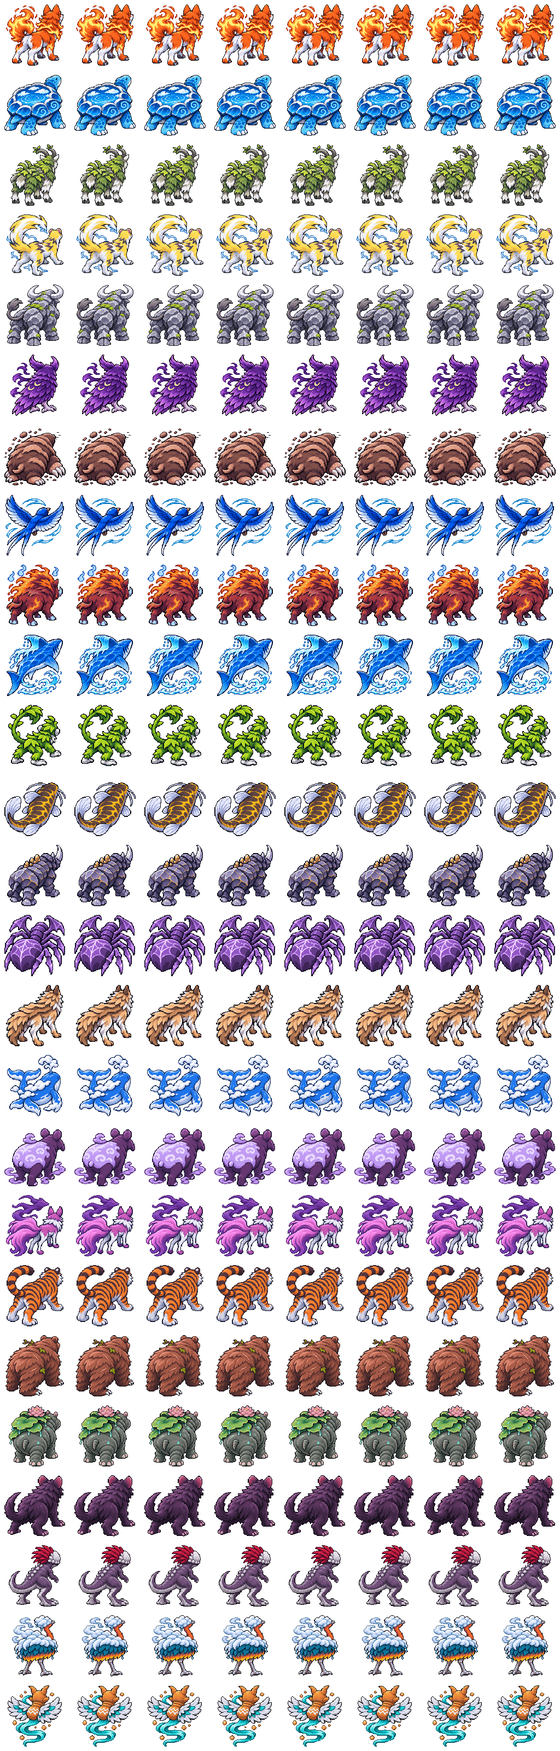
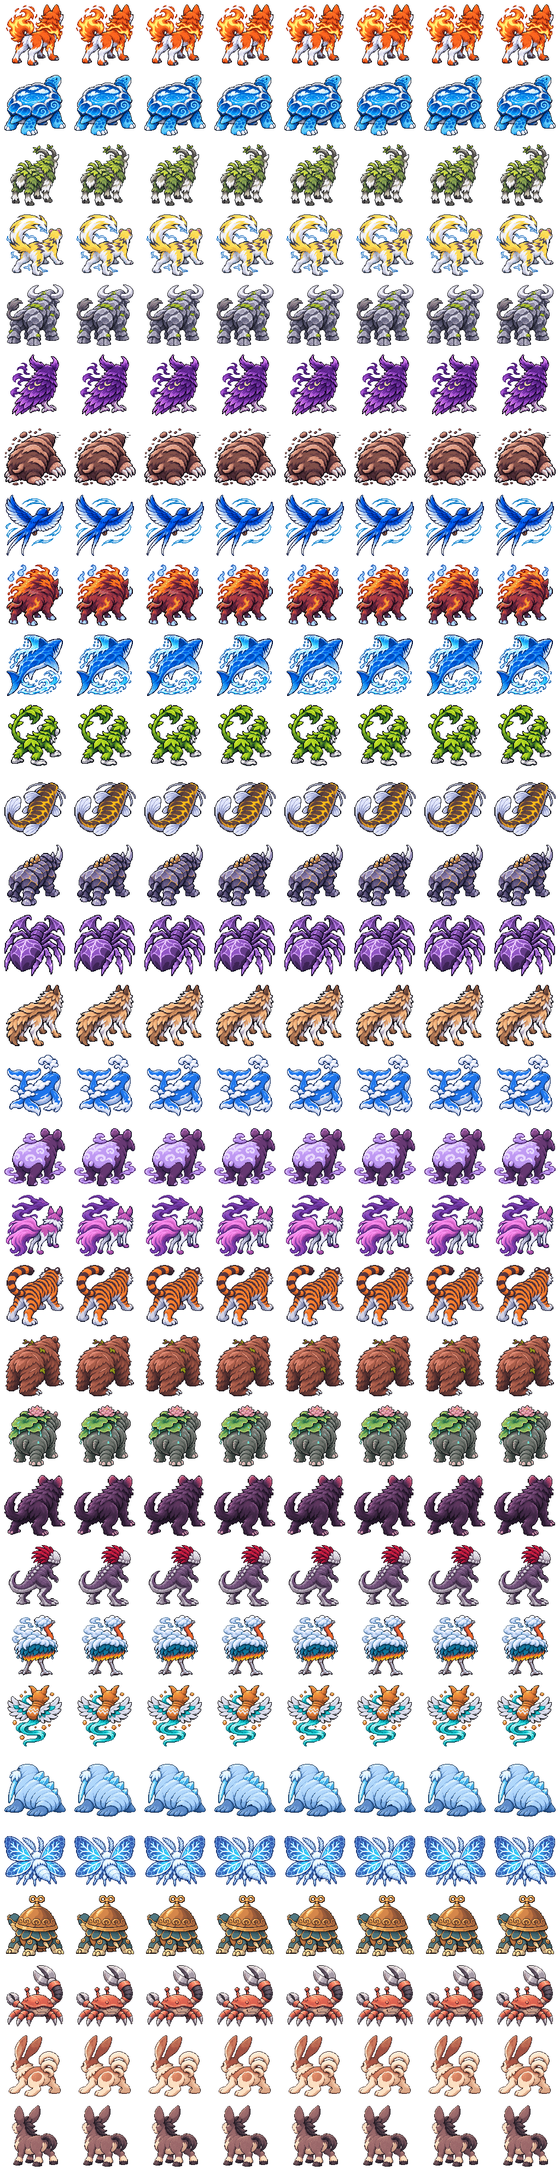
Add six normal ice, alchemy and neutral creatures with approved 128px art

diff --git a/index.html b/index.html
@@ -798,7 +798,7 @@ select,.pass{color:var(--bone);background:#172c40e8;border-color:var(--glass-edg
   <section class="modal-panel"><header class="modal-header"><div><span class="section-kicker">GENJU TOUKI</span><h2 id="modalTitle">幻獣闘記</h2></div><button id="btnModalClose" aria-label="ウィンドウを閉じる">×</button></header><div class="modal-body" id="modalBody"></div></section>
 </div>
 
-<script src="pixel-art.js?v=20261123-01"></script>
+<script src="pixel-art.js?v=20261123-02"></script>
 <script>
 "use strict";
 
@@ -2852,6 +2852,20 @@ const BACK_SPRITES = {
   }
 };
 
+
+SPRITES["tsurarauchi"]={"pal": {"0": "#031739", "1": "#07244a", "2": "#082b4f", "3": "#0d375d", "4": "#214f84", "5": "#36619c", "6": "#3c78b8", "7": "#3faae8", "8": "#5483c1", "9": "#5e8ac7", "A": "#6391ce", "B": "#71e8fb", "C": "#75a2da", "D": "#7bade5", "E": "#87b1e2", "F": "#94bbe6", "G": "#9fc8f3", "H": "#aacff7", "I": "#aed8fb", "J": "#b2d6fb", "K": "#b3d8fb", "L": "#b4ddfc", "M": "#b6dafb", "N": "#bcdefb", "O": "#bdd9f5", "P": "#cbf7fc", "Q": "#d1eafa", "R": "#e0f6fd", "S": "#e9f9fc", "T": "#f6fbfc"}, "px": ["................................", "................................", "................................", "................................", "................................", "................................", "................................", "................................", ".........8KQCRS.................", "........SCGHG04I3...............", "......31T641T01HN...............", ".....2TRS4TTSSRQH2..2...........", "....TMRRTFRSSRSRGQTPD...........", "....2RS3H2G0RRRQ0KOB7...........", "....QF4I7EC14GN0RIK772PB........", "....21P70OOLT72SDJLSBLR6........", ".....2L7EOOPPBAFJJMRQ777........", ".....PBSFO3P72DIIFKRMR0BSS......", ".....P7AOF3S7FIJJIIMKKJRB7......", "....3SBEOOTLLOHIMKKJJJMNQ7......", "....3S24OOTSSOH3JJADJKIIMRB1....", "....TL0DCOPB2OCJENKKKJGJGKH1....", "....PRCJOFPBEO3HKKJJIQHI8IHS....", "....P2HFOOSBOO30JIDCKHDH8H9G....", "....B.H1FORSOF5NFA998CDDDDDD0...", "....0.80FES2FFFD999990ACDD160...", "....39884ETFFFE39A999968A58CD0..", "...ECA9854BCCCC890A3C4A1455800..", "..9A5A854.3.1000AD9D6C83........", ".....10.........15450400........", "................................", "................................"]};
+BACK_SPRITES["tsurarauchi"]={"pal": {"0": "#031739", "1": "#07244a", "2": "#082b4f", "3": "#0d375d", "4": "#214f84", "5": "#36619c", "6": "#3c78b8", "7": "#3faae8", "8": "#5483c1", "9": "#5e8ac7", "A": "#6391ce", "B": "#71e8fb", "C": "#75a2da", "D": "#7bade5", "E": "#87b1e2", "F": "#94bbe6", "G": "#9fc8f3", "H": "#aacff7", "I": "#aed8fb", "J": "#b2d6fb", "K": "#b3d8fb", "L": "#b4ddfc", "M": "#b6dafb", "N": "#bcdefb", "O": "#bdd9f5", "P": "#cbf7fc", "Q": "#d1eafa", "R": "#e0f6fd", "S": "#e9f9fc", "T": "#f6fbfc"}, "px": ["................................", "................................", "................................", "................................", "................................", "................................", ".........3QRQQR.................", "........FOMKKKJG2...............", "........0FKJKKIHC...............", ".....5SRS9JQJJIGE84S............", ".....TSTS3FJJKKJ0PP7............", "....E4RTH3JENKK5LP77.2..........", ".....RER0AQMKKJB7L7SP7..........", ".....G7Q6QIIJ8QRT7IPT7..........", ".....0B7RJKJJQMKKF77773L2.......", ".....P70KIIMRKKMMRST6BT72.......", ".....P7MJIQRKKIJQMMMD7T72.......", "....3S7JISKKJ8MKKKMQRRR72S......", "....T72HTNHJEKKKHKKKKKFD77......", "....P730QICHJJJFMIJFIRQRT7......", "....PB.MIIIDJIHKIIRKMMKKMND.....", "....T54HHHH5HH6HHTKRPKJJKJ62....", "....B.395GGEGHGHAJJIJJIIAJGG....", "....1.D9A6C9DDGGGSNMJIIJIHGC....", ".....D999900DDDDQJJJHIHHHAD4....", "...0ACHA99589A5AC9A81HH8D3069...", "..H5COCHA60..055A9AAA0D3D85680..", "..45081840...G3C8C9A9586045550..", "............D0C0CAE960..........", ".............03251502...........", "................................", "................................"]};
+SPRITES["shimosura"]={"pal": {"0": "#03113f", "1": "#0d1c54", "2": "#0d245b", "3": "#172f71", "4": "#182432", "5": "#274d9c", "6": "#2dc1f4", "7": "#2eacec", "8": "#31d6fa", "9": "#3285d5", "A": "#334fa5", "B": "#3358af", "C": "#3461b9", "D": "#3698e3", "E": "#376fc3", "F": "#3c64b4", "G": "#527bc1", "H": "#638fd4", "I": "#6aa5e6", "J": "#73dbf8", "K": "#80bff3", "L": "#86aee7", "M": "#a3c5f0", "N": "#b1d5f8", "O": "#bdeffc", "P": "#c0e0fa", "Q": "#daeefa", "R": "#e3f8fc", "S": "#f0fcfd", "T": "#f2f9fb", "U": "#fafcfd"}, "px": ["................................", "................................", "................................", "................................", "................................", "................................", "...........................3....", "..5AKM......N...........5MBFB3..", "..LALAK....Q3..........QHA5IB2..", "..KFAANM..PM.......A..SAOAABBF..", "..K5TB7C3TQ1....32Q.5KBESBUBB3..", "..3BJ9EEHIP...1LPIL5KH7BRUUBB...", "...CBODEDNK..3QQ1M.OJJ99U9AA3...", "...BTCT66RL.UUTG..TI7UDUUUUBK...", "...CQBD8JLK.PT...U6Q86U9DBB63...", "...3BJDUR9AP001.0688UUTJ7UBE....", "...5EO96TQPP00Q1QJ8UU8DD9BTL....", "....3OO850P3ANRQ7RD887DDUCS.....", "......GR4Q5MOTSR099SUUTPO5......", ".....QB7UQLPTSRSM20EI77BL3......", "....MC7UNSRRSPQLC6QU88U6CHM.....", "...KRBS69NRRTGM10686R88T9DMM....", "..2B999871NMPL3QE2U7R7769UBC2...", "..KBBQ6R5NGHGSHNPIGRRT7DOBICK...", "..1NOT3MQ032GSF50T15H01TJBKCH...", ".......UF.R0.RNHLMNLPLM.31KO3...", ".......H..B..HF.0GMHHNH.........", "......N..N...Q....01.2L1........", "......0..3...O.....I...N........", ".............3..................", "................................", "................................"]};
+BACK_SPRITES["shimosura"]={"pal": {"0": "#03113f", "1": "#0d1c54", "2": "#0d245b", "3": "#172f71", "4": "#274d9c", "5": "#2dc1f4", "6": "#2eacec", "7": "#31d6fa", "8": "#3285d5", "9": "#334fa5", "A": "#3358af", "B": "#3461b9", "C": "#3698e3", "D": "#376fc3", "E": "#3c64b4", "F": "#527bc1", "G": "#638fd4", "H": "#6aa5e6", "I": "#73dbf8", "J": "#80bff3", "K": "#86aee7", "L": "#a3c5f0", "M": "#b1d5f8", "N": "#bdeffc", "O": "#c0e0fa", "P": "#daeefa", "Q": "#e3f8fc", "R": "#f0fcfd", "S": "#f2f9fb", "T": "#fafcfd"}, "px": ["................................", "................................", "................................", "................................", "................................", "................................", "................................", "...FJM3...3......T......4PLAL...", "..HAB9AQ..3QE3...33....3LA9AA3..", "..DDAB9GM3.2LTG..9PL..SFH9AHE2..", "..KB9MA6RJ4.OPK2..LS.GJI6CTAB3..", "..3EA8SDB8J..KMH..KO3HBBBT6AB...", "...AAADTCCCJ..1G.2M3QC6CTDAJF...", "...ABM65T6T5S..F..H0I65T65SB0...", "...JHBB8CTQ5732OTR4SPSTCDBCB3...", "...3JBR6QS6T7QQRSRGC5TTQ6IBK....", "....FSD8CNT7CQ0PPOLP8RCCTAN2....", ".....GSQCT75PMLFMORHP65CTQ1.....", ".......2GAB88POPRSRSD8D0........", ".....9PMN57T56GTTQ9LPP558N......", "....4PADC77QIP0POGOMH86ICDJ4....", "...4JBDSIC7572DKHQSRPN56TSIK3...", "...MBBTDT6RN0EGBHPORTQJQCDTBF...", "..4DDBBBC6T0FR0OKMQQTPPSC5BJB4..", "..2DDJITS0F.SHFS4LOPPQOH3S6JD3..", "....24..OM1LPG4SO2KMOGHGL..33...", "........K0.3L4.OK10JHMP.H.......", "........G..M...O.....0K.01......", ".......0..20...K......F..A......", "...............0................", "................................", "................................"]};
+SPRITES["kamegane"]={"pal": {"0": "#151012", "1": "#17232c", "2": "#1c1516", "3": "#1d181a", "4": "#211a1b", "5": "#271d1c", "6": "#2e2422", "7": "#3a454a", "8": "#3f302a", "9": "#40585e", "A": "#4f747a", "B": "#5d8588", "C": "#6d4334", "D": "#8c5a3d", "E": "#929a8a", "F": "#956e4e", "G": "#ac6841", "H": "#b97640", "I": "#c1834a", "J": "#d19c6c", "K": "#d4a47a", "L": "#d7894f", "M": "#dbbe88", "N": "#de934c", "O": "#e2ab69", "P": "#e4a155", "Q": "#f3ad59", "R": "#f9c87b", "S": "#f9d5a1", "T": "#f9daa0", "U": "#fbeeb8", "V": "#fcd5a1"}, "px": ["................................", "................................", "...............4QP.UP...........", "...............Q.HQG.I..........", "...............HNGIHQ6..........", "..................Q.............", ".................QPG............", "..............4RDCCCH2..........", ".............OIOUOLLGGD2........", "............IILUOLLLIGGC5.......", ".......JTQ2IGHOHCLLLDGGCC.......", "...UGNEE7DCCNCDDCPLQCPGCCG......", "..3..0K6H764ACPPCDPPPPC8HC......", "..QCU0EBD325GQQRURR88NNIGCH.....", "..45UDVVGBUPAA000DDRRQQRCCC.....", "...82VVVVF51BB4D793432CRPIC5....", "....KS4VS2VVF9GAAA7334D24DIN....", ".....SVVVVVKK72RAA9B2LUL238QG...", ".......3KKKCK173RQBQ3IQN2332N...", ".......N3KKKSV75F08A95D21228G...", "......4DJMMVVVFS072QA99797C0....", "......2MAISVVSV7BBBGQBPAA0B.....", ".....KC4BSMVVKK0UU890D2IP0D4....", "....24IB72RKKRJAEI6G2IGG7IQ.....", "....EBB4K9F6JJIFCBBABFD2774B....", "....BBEVK3.CIJITVEBBAD30KVEB2...", "....KC3MK..FCF26V9B772..KJSSI...", "...U3JVKD.00FF..JVVVCS..KKCUK2..", "...KUJKK0.......V0VFUJ5....4....", "................20U4U...........", "................................", "................................"]};
+BACK_SPRITES["kamegane"]={"pal": {"0": "#110c0c", "1": "#181110", "2": "#182432", "3": "#1a1413", "4": "#1c1514", "5": "#221916", "6": "#31474d", "7": "#36241d", "8": "#37555c", "9": "#42656d", "A": "#44322c", "B": "#4a717a", "C": "#517881", "D": "#683e30", "E": "#76857a", "F": "#845138", "G": "#9b5c3b", "H": "#b16e3e", "I": "#bf7341", "J": "#c4a884", "K": "#c67942", "L": "#d5874a", "M": "#da8e46", "N": "#de9649", "O": "#e69c4b", "P": "#eea653", "Q": "#f1b768", "R": "#f8c16a", "S": "#fad085", "T": "#fbdb9d", "U": "#fce7ad"}, "px": ["................................", "................................", ".............0UP.1TL............", ".............P.7NM.M............", ".............1RNOMSG............", "................P1..............", "...............PPI..............", ".............4QRRMI3............", "............MOULLIGFF1..........", "..........4KUTPLLLIGFF0.........", "......C0.3IPPPLLLIIGGFF.........", "...S1CCC8LKPPLLLHHIIGFFH........", "...NTCCCQQDDUDLLAIIGAAFD1.......", "....CQ987MGDMPLNANGQAFAIA.......", "....9SM0KAMAMNAONDDM7DKKI4......", "....5SHPRAAOLLLGGAKKHKIKHN......", ".....JSSRPTTSQAAADAAAAHNIH......", "......JJA2SSROOOLLLKHIIKN0......", ".......SC9G8960414111226F.......", ".......SCPBBB69888A888K880......", ".......FL4CCBRBBCBP9999K9O......", "......0C8ACRP11RBB4BC991H0......", ".....PRC8KFD9FO8HO21NN0F8QR.....", ".....1C481IIRDMC6665J16590I1....", "....ECEJ56DEC5C00886TTG8SC99....", "....ECTJJ..ECCCSJGLLGT3JJ499....", "...4TTGJ5..0441J1FFG1..JJSTT....", "...STTJJ...J0TTG.FF11..1JJQ0U...", "...1455...UQUJJJ........113TS...", "..........15J311................", "................................", "................................"]};
+SPRITES["kanippa"]={"pal": {"0": "#050105", "1": "#0f0b12", "2": "#182432", "3": "#1c1219", "4": "#331a1e", "5": "#39313c", "6": "#3d2429", "7": "#5a4c5a", "8": "#5c2f30", "9": "#5d3e44", "A": "#675866", "B": "#6f6576", "C": "#8e4140", "D": "#96635b", "E": "#9a7e7d", "F": "#a69ba7", "G": "#ad4640", "H": "#bc5147", "I": "#beb2bd", "J": "#c69e8a", "K": "#d15f51", "L": "#d4c9cf", "M": "#dcb79d", "N": "#e06250", "O": "#e96b55", "P": "#eeceb7", "Q": "#f0e3da", "R": "#f3795d", "S": "#f49b76", "T": "#f6b68f", "U": "#f88968", "V": "#faf6f2"}, "px": ["................................", "................................", "................................", "...........0VVLB3...............", "..........VLLL7.................", "........5VQV57...V..............", "........VIIV70..LB..............", ".......5III7E.VIIB..............", ".......1B4L71IQLFE..............", "......L0LFIEIILLB...............", ".....SS7BIF2ILAE0...............", "....5PRUIIBABAB.................", "....E0RRHG0.....................", "...3BB6HC4H....30...TR..........", "...FA555C......43...11..........", "...EB7534......40...KC..........", "...B770C.....66UJD..H...VQ7.6...", "...A703K..1KUSRHGKHK0..LL7.LL...", "....OHH8PSKKN48NRRRRG4.FI1LLE...", ".....4ADTP0TKNUG6HTCOK.UUIIB....", ".......6DDJ3GGDEJ30PJC4UH1A3....", "......0.615EEMTTTTMME4TD8C......", ".....SRGPR35ETPTTTTJEB78........", "....UNCPUOCPKEJTJJJJGTCRT.......", "...JOC5RNCKTR0DDEDD9KCQCGU......", "...VG3TRC3GR8.....954HR0CKT.....", "...IA.V61.C40.....07.080.7L.....", "...I..QB..BF......03..EL..Q.....", "...E..V3...L..........10..F.....", "......2.........................", "................................", "................................"]};
+BACK_SPRITES["kanippa"]={"pal": {"0": "#050105", "1": "#0f0b12", "2": "#1c1219", "3": "#331a1e", "4": "#39313c", "5": "#3d2429", "6": "#5a4c5a", "7": "#5c2f30", "8": "#5d3e44", "9": "#675866", "A": "#6f6576", "B": "#8e4140", "C": "#96635b", "D": "#9a7e7d", "E": "#a69ba7", "F": "#ad4640", "G": "#bc5147", "H": "#beb2bd", "I": "#c69e8a", "J": "#d15f51", "K": "#d4c9cf", "L": "#dcb79d", "M": "#e06250", "N": "#e96b55", "O": "#eeceb7", "P": "#f0e3da", "Q": "#f3795d", "R": "#f49b76", "S": "#f6b68f", "T": "#f88968", "U": "#faf6f2"}, "px": ["................................", "................................", ".................KKUU1..........", "..................6UKKU.........", "...............K...69UKK........", "...............UH4.16DKEP.......", "...............KHHK.D6EEE.......", "...............0DHUK06H6E.......", "................DEKHEDUKK1......", ".................H9EE0EOSTN.....", "..................A996TNTOQ3....", "....................32JJB4A2....", "...........0M...NM....BB49A6....", "...........0F...1......B4599....", ".....0......M...0T.....306962...", "...U64KU....G.0SOO5.....B6662...", "...HK46H5...1TTSNSTQQ..3T464....", "...AUH1D3.2TFQRTTTNMNJ2OCG10....", "...K6EQOR.MGMNQQOGNJJJQLI5B.....", "....A6FNO2FJMJJNFMMNNMBG90......", "......B0DIIT7MRMTSBBBFRT0.......", ".........A0GF23B55C58998........", "......5RG2409DDIIIIIIICBJQO.....", ".....O7QBSRQB3CCI8LLIIGO2GN7....", "....BQGBIS5F3SN0999984BMQ7FQ....", "....UGB.TQB3DQB......73GQ28E....", "...2E6..UF5.JJ7......6122K.A2...", "...0A..1EA..DD.......A..DK.62...", ".......2A...2E...........2......", ".............4..................", "................................", "................................"]};
+SPRITES["hazumimi"]={"pal": {"0": "#0f0709", "1": "#2e1818", "2": "#3e2422", "3": "#583730", "4": "#896557", "5": "#8d4f44", "6": "#a85345", "7": "#b9614d", "8": "#bb7058", "9": "#be927a", "A": "#cb8061", "B": "#cd765a", "C": "#d39576", "D": "#daa585", "E": "#e1b090", "F": "#e28966", "G": "#e3b99b", "H": "#e4a784", "I": "#ed9170", "J": "#edba98", "K": "#f1c6a5", "L": "#f8d7b9", "M": "#f9e0c6", "N": "#f9e6ce", "O": "#fbecd8", "P": "#fcf0dd", "Q": "#fcf8ea", "R": "#fde0c2", "S": "#fde4c8", "T": "#fde8cd", "U": "#fdebd0"}, "px": ["................................", "................................", "................................", "................................", "...........2I1.....0............", "..........H66....J87............", ".........AA56..282I7............", "........FFA6..H6III7............", ".......HAAM6.F1IIII1............", "......1ABSM.COIIIIB.............", "......EFCS04SBIIIN4.PQNPO4......", "......JAJD.SUBIIU0.PSMEMSOG.....", "......HDE.3S7FHU1..LE4..GTM.....", "......DJD.MM7P0...0DQPQP09R1....", "......0E03N3J......OUKOSM0J.....", "......4F7CND.......K4..DOND.....", ".....QIABSMRD1..303E9ON09E......", ".....NFFU90TQL3IABAB23LOC2......", "....Q0FS57SOUN8BFAABA88G........", "....NI7SSMRTMEBABAQLBB5E........", ".....NK9SSM9DNOBAJL8BBD.........", "......90089LOSNGRQLLBMB.........", "......PMEJKUKQ4MSQLRLLNMG.......", "......34OSSPG1UEE9RLLRPLL.......", ".......12QU1DSS8540LLULJLO......", "......3LJ9..PRR2549....DLL2.....", "....1POUD..QSS3849.....1JLO.....", "....7POE.2NTS8CH91.....OOKS4....", "....088536OQS.........MGTTMM....", ".........E8H0..........2394.....", "................................", "................................"]};
+BACK_SPRITES["hazumimi"]={"pal": {"0": "#0f0709", "1": "#2e1818", "2": "#3e2422", "3": "#583730", "4": "#896557", "5": "#8d4f44", "6": "#a85345", "7": "#b9614d", "8": "#bb7058", "9": "#be927a", "A": "#cb8061", "B": "#cd765a", "C": "#d39576", "D": "#daa585", "E": "#e1b090", "F": "#e28966", "G": "#e3b99b", "H": "#e4a784", "I": "#ed9170", "J": "#edba98", "K": "#f1c6a5", "L": "#f8d7b9", "M": "#f9e0c6", "N": "#f9e6ce", "O": "#fbecd8", "P": "#fcf0dd", "Q": "#fcf8ea", "R": "#fde0c2", "S": "#fde4c8", "T": "#fde8cd", "U": "#fdebd0"}, "px": ["................................", "................................", "..........2B......1.............", ".........0BB....3B8.............", "........2BBB...J8B8.............", "........SBB8..I8772.............", ".......QBCB7.38768..............", ".......TACB0.66656..............", ".......MCH7.85566...............", ".......CDD5.66660....QQ1........", ".......LC8.0656....POOPOS1......", ".......RD5.555....NSOKETTU0.....", ".......R81535.....RJ2..2ESE.....", ".......B66665.....J84QQQ1GJ.....", "......QB67665.....EQOTNPNDD.....", "......N9764JJJ8...0SJDHKSK......", ".....LR57MUKRKE0CI2D4623KJ......", ".....9MKLKUUK7HFFF8DNOQOCD......", "......GDNUO0BHAABOA8CEET0.......", ".......QURK7FA4IFFCR888J9.......", ".......PELBBBGFFFAANEECC1.......", ".......0GKR8BMFFABBRKGJD8.......", "........0MRC1LRAABLLGGEGC.......", "........9SS11RRSRRLEDD8DK.......", ".......4MSKG4RSRRMD8D3CDEK......", "......9RRK4..0KRTU.....DJKK.....", "....MKURE.....2MRO3...0DEED0....", "....KMRDD...URRRKE....HEDDD0....", ".....22....N9SRED......222......", "............5DD0................", "................................", "................................"]};
+SPRITES["robariton"]={"pal": {"0": "#0b060c", "1": "#1c151c", "2": "#2b1e26", "3": "#2e242f", "4": "#342a36", "5": "#3e303b", "6": "#4c353f", "7": "#52404a", "8": "#63434c", "9": "#664851", "A": "#694f58", "B": "#764e55", "C": "#825c60", "D": "#946567", "E": "#976d6d", "F": "#996769", "G": "#9d686a", "H": "#9d6b6c", "I": "#9d6e6f", "J": "#a06c6d", "K": "#a17070", "L": "#a47271", "M": "#ae7a77", "N": "#b98c81", "O": "#ce9a86", "P": "#d8ab8e", "Q": "#e5b899", "R": "#f7d8ba", "S": "#fcdfc1", "T": "#fce2c4", "U": "#fcebd1"}, "px": ["................................", "................................", "................................", ".........8.........M0...........", "........722.......DR0...........", "........GON.....5DPSF...........", "........N2E....NFPTT0...........", ".......0TDD....F6PRS5...........", "........S6CCMCMHOTSD............", "........IN1571D5PRU1............", "........BLLH5D6QSC3.............", "......TRTG1CIB965...............", ".....1SSRSLUKG41................", "......20SSFFHG247...............", "......RDSTHFEH35C...............", ".......PN2C8BFB661..............", "........OQPBFGF15A...MCN0.......", ".......ORPTGHFLJ5HFKM15BBK......", "......2NSSTDFLJDJHGHGN13773.....", "......2TTSTDSKLJGHJJGJC.5A9.....", "......LQTSTTBGJGFFLGGGG.657.....", "......71PPSOCHGLBDRQJGD.258.....", ".......BOPPO0FFBOPQNEGF..4......", ".......FB5QQOLLDNP25DFDJ........", ".......DCB...GJB76B.1B6D........", "......8EB....FFB.88...BE2.......", "......TSP....STQ1NM...RTT.......", ".....07TP...0U1Q65O...0C5.......", ".....1A54...1EEA320...AL6.......", ".....000....47A61...............", "................................", "................................"]};
+BACK_SPRITES["robariton"]={"pal": {"0": "#0b060c", "1": "#1c151c", "2": "#2b1e26", "3": "#2e242f", "4": "#342a36", "5": "#3e303b", "6": "#4c353f", "7": "#52404a", "8": "#63434c", "9": "#664851", "A": "#694f58", "B": "#764e55", "C": "#825c60", "D": "#946567", "E": "#976d6d", "F": "#996769", "G": "#9d686a", "H": "#9d6b6c", "I": "#9d6e6f", "J": "#a06c6d", "K": "#a17070", "L": "#a47271", "M": "#ae7a77", "N": "#b98c81", "O": "#ce9a86", "P": "#d8ab8e", "Q": "#e5b899", "R": "#f7d8ba", "S": "#fcdfc1", "T": "#fce2c4", "U": "#fcebd1"}, "px": ["................................", "................................", "........M.......BF..............", ".......MFL.....MGC..............", ".......DFE....OLGD..............", ".......FGJ1..7FLFB..............", "......0LEFB..MGGDB..............", ".......FFDCE3BDCB6..............", ".......BDCB50I1BB...............", ".......1BBB535A8................", "......UQCB836A6.................", ".....7TIG9B39465................", "......SDFDD1257.................", "......UTC6FB54795...............", ".......O1IFF0461................", "........FDGKC12300.0AMM2........", ".......EILBLJMNNMFD959D8E.......", ".......MM6JKMLKGMGG4144BB1......", ".......UTLIKJJMKKGHD8C7A81......", ".......TQLILJLJGLGDTP9764C......", "......0TFGGCJDJKJFGRP95140......", ".......QDGH0OPJJDGCPQ1605.......", ".......1DDCIQPKJDF3O6BB3........", "........MFBMOOODFJL.79BG8.......", "........LDB.305.KGC..0BFG.......", "........SL1.6E7.LTL...CTR5......", ".......TSQ..3FD.TRT...0RSS......", "......0C2Q.1433UQSQ0..0110......", "......A974.....A972...4774......", "...............5A51.............", "................................", "................................"]};
+
 /* ================= pixel field ================= */
 /* Native 384 × 216 pixel field. All marks use integer fillRect calls.
    Decorative randomness is private and never consumes the battle's RNG. */
@@ -3102,6 +3116,15 @@ SPECIES.push(
  {...YUDACHOU,n:"ユダチョウ",hp:130,atk:40,def:65,spatk:125,spdef:125,spd:65,role:"天候特殊アタッカー",roleDesc:"夕立とスチームタンクで回復する特殊型。物理防御と速度は控えめ。"},
  {...SARANDI,n:"サランディ",hp:120,atk:45,def:85,spatk:110,spdef:85,spd:105,role:"砂嵐特殊アタッカー",roleDesc:"砂嵐で耐久と追加効果を強化する。風纏で特殊攻撃を切り返す。"}
 );
+
+// Six normal creatures: existing ice/alchemy/neutral moves and abilities.
+SPECIES.push(...[{"id": "tsurarauchi", "n": "ツララウチ", "t": "氷", "hp": 145, "atk": 100, "def": 95, "spatk": 65, "spdef": 85, "spd": 60, "aff": "水", "role": "雪の耐久アタッカー", "roleDesc": "登場時に雪を降らせて物理耐久を補い、氷槍や氷牙で反撃する。"}, {"id": "shimosura", "n": "シモスラ", "t": "氷", "hp": 100, "atk": 45, "def": 65, "spatk": 115, "spdef": 100, "spd": 125, "aff": "空", "role": "雪の高速特殊型", "roleDesc": "雪かきで加速して冷光線を放つ。自分で雪招きを使うか、味方が降らせた雪を引き継ぐ。"}, {"id": "kamegane", "n": "カメガネ", "t": "錬", "hp": 120, "atk": 45, "def": 115, "spatk": 90, "spdef": 125, "spd": 55, "aff": "水", "role": "音技の特殊受け", "roleDesc": "警鐘の響きで攻めを鈍らせ、共鳴砲と修復で粘る。しょうすう波で音技を強化。"}, {"id": "kanippa", "n": "カニッパ", "t": "錬", "hp": 110, "atk": 120, "def": 115, "spatk": 40, "spdef": 80, "spd": 85, "aff": "水", "role": "拘束・連続攻撃型", "roleDesc": "挟み撃ちで交代を止め、けんけんまや粉砕岩を狙う。腕ピースで2発目以降を強化。"}, {"id": "hazumimi", "n": "ハズミミ", "t": "無", "hp": 105, "atk": 85, "def": 75, "spatk": 50, "spdef": 80, "spd": 155, "aff": "野", "role": "高速の蹴りアタッカー", "roleDesc": "超脚力で跳ね蹴りを強化。助走をつけるで攻撃をしのぎ、素早さを活かす。"}, {"id": "robariton", "n": "ロバリトン", "t": "無", "hp": 140, "atk": 70, "def": 80, "spatk": 105, "spdef": 100, "spd": 55, "aff": "地", "role": "音技の持久戦型", "roleDesc": "中低音で音技を受け流し、ヒーホー砲で回復しながら戦う。"}]);
+ABIL_OF.tsurarauchi=["snowWarning", "ballast"];
+ABIL_OF.shimosura=["snowShovel", "blur"];
+ABIL_OF.kamegane=["minorityWave", "mirror"];
+ABIL_OF.kanippa=["armPiece", "hide"];
+ABIL_OF.hazumimi=["superLegs", "quick"];
+ABIL_OF.robariton=["lowVoice", "focus2"];
 let selectedChallenge="kefarock";
 const spec = id => SPECIES.find(s => s.id === id)||CHALLENGES[id]?.species;
 
@@ -3148,6 +3171,12 @@ const INDIVIDUAL_MOVES={
  gako:["wildfang","wildclaw","pivot","touch","devour","ambush","startle","sand","taunt","sub"],
  arakuma:["wildfang","wildclaw","pivot","quake","rift","gravel","root","repose","revenge"]
 };
+INDIVIDUAL_MOVES.tsurarauchi=["iceMake", "snowball", "icePebble", "frostFang", "iceLance", "coldRay", "whiteStorm", "snowCall", "iceArmor", "waterfang", "aqua", "repose", "revenge"];
+INDIVIDUAL_MOVES.shimosura=["iceMake", "snowball", "coldRay", "whiteStorm", "snowCall", "iceArmor", "gust", "blast", "soar", "sub"];
+INDIVIDUAL_MOVES.kamegane=["alarmBell", "alchemyShot", "resonantCannon", "plateArmor", "repair", "scrapShot", "aqua", "haze", "repose", "sub"];
+INDIVIDUAL_MOVES.kanippa=["pincer", "kenkenma", "scrapShot", "alloyClaw", "armoredRush", "plateArmor", "repair", "waterfang", "crushrock", "gravel", "sub"];
+INDIVIDUAL_MOVES.hazumimi=["jumpKick", "runUp", "headlong", "wildclaw", "wildfang", "pivot", "sand", "sub"];
+INDIVIDUAL_MOVES.robariton=["heeHaw", "runUp", "headlong", "alarmBell", "resonantCannon", "gravel", "repose", "revenge", "sub"];
 for(const id of ["shiogame","rainen","ungei"])INDIVIDUAL_MOVES[id].push("rainDance");
 for(const id of ["fukurou","oborogi","yoigumo"])INDIVIDUAL_MOVES[id].push("mindGame");
 for(const id of ["damasdevil","gako","sarou"])INDIVIDUAL_MOVES[id].push("killBreath");
@@ -3187,6 +3216,12 @@ const IDLE_PROFILES = {
 IDLE_PROFILES.kefarock={period:1900,front:{bodyY:15,footY:28,appendages:[]},back:{bodyY:15,footY:28,appendages:[]}};
 IDLE_PROFILES.yudachou={period:2300,front:{bodyY:16,footY:27,appendages:[{rect:[24,11,29,15],delta:[1,0]}]},back:{bodyY:16,footY:27,appendages:[{rect:[24,11,29,15],delta:[1,0]}]}};
 IDLE_PROFILES.sarandi={period:2100,front:{bodyY:17,footY:28,appendages:[{rect:[2,17,7,21],delta:[0,1]}]},back:{bodyY:17,footY:28,appendages:[{rect:[23,17,29,21],delta:[0,1]}]}};
+IDLE_PROFILES.tsurarauchi={period:2320,front:{bodyY:18,footY:28,appendages:[]},back:{bodyY:18,footY:28,appendages:[]}};
+IDLE_PROFILES.shimosura={period:2320,front:{bodyY:18,footY:28,appendages:[]},back:{bodyY:18,footY:28,appendages:[]}};
+IDLE_PROFILES.kamegane={period:2320,front:{bodyY:18,footY:28,appendages:[]},back:{bodyY:18,footY:28,appendages:[]}};
+IDLE_PROFILES.kanippa={period:2320,front:{bodyY:18,footY:28,appendages:[]},back:{bodyY:18,footY:28,appendages:[]}};
+IDLE_PROFILES.hazumimi={period:2320,front:{bodyY:18,footY:28,appendages:[]},back:{bodyY:18,footY:28,appendages:[]}};
+IDLE_PROFILES.robariton={period:2320,front:{bodyY:18,footY:28,appendages:[]},back:{bodyY:18,footY:28,appendages:[]}};
 const idleFrameCache = new Map();
 function getIdleFrame(id, view="front", phase=0){
   const base = (view === "back" ? BACK_SPRITES : SPRITES)[id];
@@ -4174,7 +4209,7 @@ function renderChart(){
 }
 
 /* Newest first. Add a new immutable ID and Japan-local release date for each update. */
-const UPDATE_NEWS = [{"id": "news-20261123-01", "date": "2026-11-23", "title": "敵の向きとHPバーを調整", "items": ["メイホー・モグラウンド・フォクシャドウ・ハスカバ・ダマスデビルも、敵側ではこちらを向くよう左右反転しました。", "戦闘中のHPバーが約0.8秒かけて変化するようにし、減少量を見やすくしました。"]},{"id": "news-20261122-03", "date": "2026-11-22", "title": "幻獣と戦闘画面のドット絵を更新", "items": ["現在登場する25体の正面・背面を128pxのドット絵に更新。体の部位に合わせた呼吸アニメを追加しました。", "戦闘背景と雨・夕立・砂嵐・雪の演出を更新しました。", "麻痺・やけど・凍結・眠り・眠気と流血5段階の演出を更新。図鑑側の演出見本でも確認できます。"]},{"id": "news-20261122-02", "date": "2026-11-22", "detailsUrl":"https://github.com/KPkarin/genju-battle/blob/main/docs/new-move-review.md", "title": "氷雪・錬成の汎用技を追加", "items": ["氷雪と錬成に、安定攻撃・大技・補助技を各7種ずつ内部追加しました。", "雪招きで5ターン雪、氷の鎧・装甲強化で防御2段階上昇、修復でHP35%回復。新キャラと習得先の追加は後日です。", "既存の専用技の数値は維持しています。"]},{"id": "news-20261122-01", "date": "2026-11-22", "title": "氷雪・錬成の相性と新しい戦闘ルール", "items": ["氷雪・錬成を追加し、確定した属性相性へ更新しました。新しい幻獣の追加は後日です。", "雪、新技・新特性、音・蹴り分類を内部実装しました。", "野生の基本技の効率を改善し、荒ぶる牙をダマスデビル・ハスカバ・ケファロック・ジャングマに追加しました。"]},{"id": "news-20261115-09", "date": "2026-11-15", "title": "暗闇技「目覚ましビンタ」を追加", "items": ["威力70・気力35の物理接触技を追加しました。眠っている相手には威力2倍、本体に命中すると起こします。", "カプケード・ワカクサル・ダマスデビルが習得できます。"]},{"id": "news-20261115-08", "date": "2026-11-15", "title": "騙し合い・殺息・お隣いかがと眠気を追加", "items": ["騙し合いは次の行動を変化技に制限。後手でかけられ、次のターンに使える変化技がなければやけくそになります。", "殺息は物理防御-1・回避+2。お隣いかがは物理防御+1と、次の行動まで接触した相手に眠気を与えます。", "眠気は次のターン終了時に眠りへ変化。眠りは1〜3回の行動をランダムで休みます。"]},{"id": "news-20261115-07", "date": "2026-11-15", "title": "雨の間は望まぬ夕立が失敗するよう変更", "items": ["天気が雨のとき、望まぬ夕立は雨を上書きできなくなりました。", "雨が降っている間は効果なしと表示し、AIも夕立の使用を避けます。実行して失敗した場合は気力を消費します。"]},{"id": "news-20261115-06", "date": "2026-11-15", "title": "ケファロック・ユダチョウ・サランディを通常実装", "items": ["3体を能力合計550の通常幻獣として編成できるようにしました。専用技と特性も使用できます。", "チャレンジ版は名前をボスケファロック・ボスユダチョウ・ボスサランディに変更。チャレンジ用の高い能力値は維持します。", "通常版は通常対戦の道連れ・滅びの唄のルールを使い、編成保存・通信・おまかせにも対応します。"]},{"id": "news-20261115-05", "date": "2026-11-15", "title": "ダマスデビルと流血を追加", "items": ["暗闇・野生の通常幻獣ダマスデビル、専用技かみちぎるを追加しました。", "流血は状態異常と共存し、5段階で毎ターン最大HPの1・2・4・8・16%のダメージ。交代では解除されません。", "実際にHPが回復すると流血・発症予約が1段階減ります。", "ターン終了時の回復・継続ダメージを原因のテキストとともに、間を置いて表示します。"]},{"id": "news-20261115-04", "date": "2026-11-15", "title": "草木・野生のハスカバ登場", "items": ["通常幻獣にハスカバを追加。高いHP・物攻・物防と、雨で加速する流麗が特徴です。", "エラ呼吸を追加。気力35でHP30%回復、雨の間はさらに物攻が1段階上がります。", "通常幻獣の複合属性に合わせて、属性フィルター・一致技表示・おまかせ編成を対応しました。"]},{"id":"news-20261115-03","date":"2026-11-15","title":"天候「雨」と新しい技・特性を追加","items":["雨は5ターン継続し、流水技1.5倍・火炎技半減。雷撃と迅雷が必中になります。","雨乞いをミズカガメ・イナマヅ・ホゲールに追加しました。","ホゲールに登場時に雨を降らせる「雨獣」、イナマヅに雨の間素早さ2倍の「流麗」を追加しました。","雨・夕立・砂嵐は互いに上書きします。通常の雨には割合ダメージや回復はありません。"]},{"id": "news-20261115-02", "date": "2026-11-15", "title": "交代時の設置ダメージと技の順序を調整", "items": ["交代先が岩棘で倒れた場合、選択済みの相手を対象とする技は気力を消費して空振りし、その後に次の幻獣が登場します。", "自分への強化・回復や気力溜めは、相手が不在でも実行できます。"]},{"id": "news-20261115-01", "date": "2026-11-15", "title": "交代時の岩棘と行動継続を修正", "items": ["交代先が岩棘で倒れた場合、次の幻獣を出してから選択済みの技を続行するよう修正しました。"]},{"id":"news-20261113-05","date":"2026-11-13","title":"透明感のあるUIにリニューアル","items":["画面全体を青緑・青紫の光と半透明パネルで統一しました。","ボタンやカードの境界線を淡くし、選択中・フォーカス中の表示を整えました。","編成・装備選択・戦闘・各ウィンドウに新しいデザインを反映しました。"]},{"id":"news-20261113-04","date":"2026-11-13","title":"持ち物のドット絵を追加","items":["全20種の持ち物に48×48ドットのイラストを追加しました。","装備選択・編成・戦闘中の幻獣詳細に持ち物の絵を表示します。","装備選択はイラストと効果を並べ、スマホでも選びやすくしました。"]},{"id":"news-20261113-03","date":"2026-11-13","title":"新しい持ち物と癒しの鈴の調整","items":["気力帯の追加回復を毎ターン5に変更しました。","ゆるゆるパジャマを追加。持ち主の技の消費気力が5増えます。","癒しの鈴は交代で出たときに2回まで状態異常を治します。奇術でも使用回数を引き継ぎます。","プロテイン・ほろ酔いカクテルを追加。ターン終了時に物防・特防をそれぞれ1段階上げ、一度使うとなくなります。","全力シューズ・全力ナックル・全力メガネを追加。素早さ・物攻・特攻をそれぞれ1.5倍にしますが、最初に使った技に固定されます。交代すると固定が解除されます。"]},{"id":"news-20261113-02","date":"2026-11-13","title":"気力と守る・行動制限を調整","items":["ターン終了時の気力回復を12に変更。守る以外は同じ技を連続使用するたび消費気力が5増えます。別の技・気力溜め・交代で加算がリセットされます。","集中は気力上限150で開始し、気力溜めの回復量2倍と被ダメ増加なしに。好機の追加効果倍率は1.5倍へ変更しました。","守るは反響・封技・挑発など、相手から直接受ける変化技も防ぎます。天気や既存の継続ダメージ、場全体の効果は防げません。","反響・封技・挑発は、後手でかけた場合に次のターンから持続を数え、先手・後手とも3回の行動に影響するようになりました。"]},{"id":"news-20261113-01","date":"2026-11-13","detailsUrl":"https://github.com/KPkarin/genju-battle/blob/main/docs/rebalance-v17.md","title":"通常20体と技・特性を全体調整","items":["おどかすの行動阻止と先制を撤廃。通常攻撃に50%の物攻低下を付けました。","気合い・精神統一・結界を2段階上昇へ変更し、気力消費も見直しました。","仕返しの上限・身代わり・無効相性、幻痛の気力吸収、闇喰らいの回復量を調整しました。","通常20体の習得技を個別化し、見切り・重心・岩肌・反骨などの特性を調整しました。","若葉弾を追加し、悪夢を暗闇属性に変更。メイホーなどの役割を整えました。","反響中でも交代できるよう修正。破魔石は持ち主の攻撃に作用するよう修正しました。","旧編成は新しい習得範囲に合わせて補完し、変更前の保存データもブラウザ内にバックアップします。"]},{"id":"news-20261111-05","date":"2026-11-11","title":"奇術の交換条件を変更","items":["奇術は、双方が持ち物を持っている場合だけ成功するようになりました。","どちらかの持ち物が持ち主から離れない場合も失敗します。","技の説明・効果なし表示・AIの判断にも交換条件を反映しました。"]},{"id":"news-20261111-04","date":"2026-11-11","title":"チャレンジボス・サランディ登場","items":["大地・天空の複合ボス、サランディを追加しました。","サンドブレイクは使用直後から5ターン砂嵐を起こし、30%で相手をひるませます。","風纏は次の特殊攻撃の命中率を100ポイント下げ、外れた攻撃を威力半分で反射します。","砂嵐中は岩石の特防が1.5倍。専用特性はにうんどうは防御・特防1.5倍、追加効果の確率2倍です。","爆発分類を追加し、サンドブレイクと種爆弾を分類しました。"]},{"id":"news-20261111-03","date":"2026-11-11","title":"ボスのHPと即戦闘不能技を調整","items":["ケファロックのHPを500、ユダチョウのHPを450に引き上げました。","ボスへの道連れ・滅びの唄は、最大HPの1/3ダメージに変更しました。味方と通常対戦への効果は変わりません。","ボス用ルールを挑戦前の画面に追加しました。"]},{"id":"news-20261111-02","date":"2026-11-11","title":"ユダチョウの行動を調整","items":["望まぬ夕立をおどかすで阻止された後は、同じ相手に対して攻撃技を優先するようになりました。","おどかすによる阻止や、反響などの強制行動の効果は引き続き有効です。"]},{"id":"news-20261111-01","date":"2026-11-11","title":"チャレンジボス・ユダチョウ登場","items":["火炎・流水の複合属性を持つユダチョウに挑戦できます。","スチームチョイスは相性に応じて流水と火炎を使い分け、50%でやけどにします。","望まぬ夕立は5ターン継続。流水属性は回復し、複合属性の影響は合算されます。","専用特性スチームタンクは流水ダメージを回復へ変え、火炎攻撃を受けると特攻が上がります。"]},{"id":"news-20261110-03","date":"2026-11-10","title":"チャレンジボス・ケファロック登場","items":["岩石・野生の複合属性を持つケファロックに挑戦できます。","専用技ワイルドロック・野生回帰、専用特性いしあたまを追加しました。","体当たり・翻し・翔撃などに内部の突進区分を追加しました。"]},{"id":"news-20261110-02","date":"2026-11-10","title":"反動ターンと強制行動を修正","items":["反動で動けないターンはコマンド入力を省略し、おどかすは失敗します。","反響で使う技が気力不足や使用制限で使えない場合は、攻撃扱いのやけくそで最大HPの20%を失います。","道連れの優先度を通常技と同じにしました。"]},{"id": "news-20261110-01", "date": "2026-11-10", "title": "お知らせ機能を追加", "items": ["未読の最新アップデートを起動時に一度だけ表示します。", "メニューの「お知らせ」から更新履歴を確認できます。"]}, {"id": "b0bf28e-contact", "date": "2026-11-09", "title": "接触技と持ち物の調整", "items": ["攻撃技に接触・非接触の区分を追加しました。", "毒棘は接触技が本体に当たったときだけ発動します。", "護りの札はHP満タンから倒される場合に、一度だけHP1で耐える仕様になりました。"]}, {"id": "057fa31-smart-builds", "date": "2026-11-08", "title": "おまかせ編成を改善", "items": ["持ち物・技・特性が噛み合う組み合わせを選ぶようになりました。", "属性一致の攻撃技を必ず含み、技制限のない持ち物では攻撃2・変化2で編成します。"]}, {"id": "7163438-combat", "date": "2026-11-08", "title": "技と気力溜めのバランス調整", "items": ["痺れ砂の麻痺を交代時50%へ変更。岩投げ・砂礫・体当たりを調整しました。", "守るは攻撃ダメージと追加効果を防ぎ、おどかすでは阻止されなくなりました。", "気力溜めを選択したターンは、攻撃から受けるダメージが1.2倍になります。", "火の粉などの低威力技は、追加効果と気力消費で使い分けられるようにしました。"]}, {"id": "91b43b1-names", "date": "2026-11-08", "title": "幻獣の名前を変更", "items": ["全20体の名前をカタカナに変更しました。", "保存済みの編成は引き続き使用できます。"]}, {"id": "dac5275-move-types", "date": "2026-11-08", "title": "技の属性を整理", "items": ["全62技を見直し、結界・砂かけ・翻し・悪夢など11技の属性を変更しました。", "変更前に覚えられた技と、保存済みの技構成は維持しています。"]}];
+const UPDATE_NEWS = [{"id": "news-20261123-02", "date": "2026-11-23", "title": "氷雪・錬成・無属性の幻獣6体が登場", "items": ["ツララウチ・シモスラ・カメガネ・カニッパ・ハズミミ・ロバリトンを通常幻獣として追加しました。", "全員の能力値合計は550。作成済みの正面・背面ドット絵と呼吸アニメを実装しました。", "製氷・雪合戦・けんけんま・跳ね蹴り・ヒーホー砲などを、モチーフと役割に合わせて習得します。"]},{"id": "news-20261123-01", "date": "2026-11-23", "title": "敵の向きとHPバーを調整", "items": ["メイホー・モグラウンド・フォクシャドウ・ハスカバ・ダマスデビルも、敵側ではこちらを向くよう左右反転しました。", "戦闘中のHPバーが約0.8秒かけて変化するようにし、減少量を見やすくしました。"]},{"id": "news-20261122-03", "date": "2026-11-22", "title": "幻獣と戦闘画面のドット絵を更新", "items": ["現在登場する25体の正面・背面を128pxのドット絵に更新。体の部位に合わせた呼吸アニメを追加しました。", "戦闘背景と雨・夕立・砂嵐・雪の演出を更新しました。", "麻痺・やけど・凍結・眠り・眠気と流血5段階の演出を更新。図鑑側の演出見本でも確認できます。"]},{"id": "news-20261122-02", "date": "2026-11-22", "detailsUrl":"https://github.com/KPkarin/genju-battle/blob/main/docs/new-move-review.md", "title": "氷雪・錬成の汎用技を追加", "items": ["氷雪と錬成に、安定攻撃・大技・補助技を各7種ずつ内部追加しました。", "雪招きで5ターン雪、氷の鎧・装甲強化で防御2段階上昇、修復でHP35%回復。新キャラと習得先の追加は後日です。", "既存の専用技の数値は維持しています。"]},{"id": "news-20261122-01", "date": "2026-11-22", "title": "氷雪・錬成の相性と新しい戦闘ルール", "items": ["氷雪・錬成を追加し、確定した属性相性へ更新しました。新しい幻獣の追加は後日です。", "雪、新技・新特性、音・蹴り分類を内部実装しました。", "野生の基本技の効率を改善し、荒ぶる牙をダマスデビル・ハスカバ・ケファロック・ジャングマに追加しました。"]},{"id": "news-20261115-09", "date": "2026-11-15", "title": "暗闇技「目覚ましビンタ」を追加", "items": ["威力70・気力35の物理接触技を追加しました。眠っている相手には威力2倍、本体に命中すると起こします。", "カプケード・ワカクサル・ダマスデビルが習得できます。"]},{"id": "news-20261115-08", "date": "2026-11-15", "title": "騙し合い・殺息・お隣いかがと眠気を追加", "items": ["騙し合いは次の行動を変化技に制限。後手でかけられ、次のターンに使える変化技がなければやけくそになります。", "殺息は物理防御-1・回避+2。お隣いかがは物理防御+1と、次の行動まで接触した相手に眠気を与えます。", "眠気は次のターン終了時に眠りへ変化。眠りは1〜3回の行動をランダムで休みます。"]},{"id": "news-20261115-07", "date": "2026-11-15", "title": "雨の間は望まぬ夕立が失敗するよう変更", "items": ["天気が雨のとき、望まぬ夕立は雨を上書きできなくなりました。", "雨が降っている間は効果なしと表示し、AIも夕立の使用を避けます。実行して失敗した場合は気力を消費します。"]},{"id": "news-20261115-06", "date": "2026-11-15", "title": "ケファロック・ユダチョウ・サランディを通常実装", "items": ["3体を能力合計550の通常幻獣として編成できるようにしました。専用技と特性も使用できます。", "チャレンジ版は名前をボスケファロック・ボスユダチョウ・ボスサランディに変更。チャレンジ用の高い能力値は維持します。", "通常版は通常対戦の道連れ・滅びの唄のルールを使い、編成保存・通信・おまかせにも対応します。"]},{"id": "news-20261115-05", "date": "2026-11-15", "title": "ダマスデビルと流血を追加", "items": ["暗闇・野生の通常幻獣ダマスデビル、専用技かみちぎるを追加しました。", "流血は状態異常と共存し、5段階で毎ターン最大HPの1・2・4・8・16%のダメージ。交代では解除されません。", "実際にHPが回復すると流血・発症予約が1段階減ります。", "ターン終了時の回復・継続ダメージを原因のテキストとともに、間を置いて表示します。"]},{"id": "news-20261115-04", "date": "2026-11-15", "title": "草木・野生のハスカバ登場", "items": ["通常幻獣にハスカバを追加。高いHP・物攻・物防と、雨で加速する流麗が特徴です。", "エラ呼吸を追加。気力35でHP30%回復、雨の間はさらに物攻が1段階上がります。", "通常幻獣の複合属性に合わせて、属性フィルター・一致技表示・おまかせ編成を対応しました。"]},{"id":"news-20261115-03","date":"2026-11-15","title":"天候「雨」と新しい技・特性を追加","items":["雨は5ターン継続し、流水技1.5倍・火炎技半減。雷撃と迅雷が必中になります。","雨乞いをミズカガメ・イナマヅ・ホゲールに追加しました。","ホゲールに登場時に雨を降らせる「雨獣」、イナマヅに雨の間素早さ2倍の「流麗」を追加しました。","雨・夕立・砂嵐は互いに上書きします。通常の雨には割合ダメージや回復はありません。"]},{"id": "news-20261115-02", "date": "2026-11-15", "title": "交代時の設置ダメージと技の順序を調整", "items": ["交代先が岩棘で倒れた場合、選択済みの相手を対象とする技は気力を消費して空振りし、その後に次の幻獣が登場します。", "自分への強化・回復や気力溜めは、相手が不在でも実行できます。"]},{"id": "news-20261115-01", "date": "2026-11-15", "title": "交代時の岩棘と行動継続を修正", "items": ["交代先が岩棘で倒れた場合、次の幻獣を出してから選択済みの技を続行するよう修正しました。"]},{"id":"news-20261113-05","date":"2026-11-13","title":"透明感のあるUIにリニューアル","items":["画面全体を青緑・青紫の光と半透明パネルで統一しました。","ボタンやカードの境界線を淡くし、選択中・フォーカス中の表示を整えました。","編成・装備選択・戦闘・各ウィンドウに新しいデザインを反映しました。"]},{"id":"news-20261113-04","date":"2026-11-13","title":"持ち物のドット絵を追加","items":["全20種の持ち物に48×48ドットのイラストを追加しました。","装備選択・編成・戦闘中の幻獣詳細に持ち物の絵を表示します。","装備選択はイラストと効果を並べ、スマホでも選びやすくしました。"]},{"id":"news-20261113-03","date":"2026-11-13","title":"新しい持ち物と癒しの鈴の調整","items":["気力帯の追加回復を毎ターン5に変更しました。","ゆるゆるパジャマを追加。持ち主の技の消費気力が5増えます。","癒しの鈴は交代で出たときに2回まで状態異常を治します。奇術でも使用回数を引き継ぎます。","プロテイン・ほろ酔いカクテルを追加。ターン終了時に物防・特防をそれぞれ1段階上げ、一度使うとなくなります。","全力シューズ・全力ナックル・全力メガネを追加。素早さ・物攻・特攻をそれぞれ1.5倍にしますが、最初に使った技に固定されます。交代すると固定が解除されます。"]},{"id":"news-20261113-02","date":"2026-11-13","title":"気力と守る・行動制限を調整","items":["ターン終了時の気力回復を12に変更。守る以外は同じ技を連続使用するたび消費気力が5増えます。別の技・気力溜め・交代で加算がリセットされます。","集中は気力上限150で開始し、気力溜めの回復量2倍と被ダメ増加なしに。好機の追加効果倍率は1.5倍へ変更しました。","守るは反響・封技・挑発など、相手から直接受ける変化技も防ぎます。天気や既存の継続ダメージ、場全体の効果は防げません。","反響・封技・挑発は、後手でかけた場合に次のターンから持続を数え、先手・後手とも3回の行動に影響するようになりました。"]},{"id":"news-20261113-01","date":"2026-11-13","detailsUrl":"https://github.com/KPkarin/genju-battle/blob/main/docs/rebalance-v17.md","title":"通常20体と技・特性を全体調整","items":["おどかすの行動阻止と先制を撤廃。通常攻撃に50%の物攻低下を付けました。","気合い・精神統一・結界を2段階上昇へ変更し、気力消費も見直しました。","仕返しの上限・身代わり・無効相性、幻痛の気力吸収、闇喰らいの回復量を調整しました。","通常20体の習得技を個別化し、見切り・重心・岩肌・反骨などの特性を調整しました。","若葉弾を追加し、悪夢を暗闇属性に変更。メイホーなどの役割を整えました。","反響中でも交代できるよう修正。破魔石は持ち主の攻撃に作用するよう修正しました。","旧編成は新しい習得範囲に合わせて補完し、変更前の保存データもブラウザ内にバックアップします。"]},{"id":"news-20261111-05","date":"2026-11-11","title":"奇術の交換条件を変更","items":["奇術は、双方が持ち物を持っている場合だけ成功するようになりました。","どちらかの持ち物が持ち主から離れない場合も失敗します。","技の説明・効果なし表示・AIの判断にも交換条件を反映しました。"]},{"id":"news-20261111-04","date":"2026-11-11","title":"チャレンジボス・サランディ登場","items":["大地・天空の複合ボス、サランディを追加しました。","サンドブレイクは使用直後から5ターン砂嵐を起こし、30%で相手をひるませます。","風纏は次の特殊攻撃の命中率を100ポイント下げ、外れた攻撃を威力半分で反射します。","砂嵐中は岩石の特防が1.5倍。専用特性はにうんどうは防御・特防1.5倍、追加効果の確率2倍です。","爆発分類を追加し、サンドブレイクと種爆弾を分類しました。"]},{"id":"news-20261111-03","date":"2026-11-11","title":"ボスのHPと即戦闘不能技を調整","items":["ケファロックのHPを500、ユダチョウのHPを450に引き上げました。","ボスへの道連れ・滅びの唄は、最大HPの1/3ダメージに変更しました。味方と通常対戦への効果は変わりません。","ボス用ルールを挑戦前の画面に追加しました。"]},{"id":"news-20261111-02","date":"2026-11-11","title":"ユダチョウの行動を調整","items":["望まぬ夕立をおどかすで阻止された後は、同じ相手に対して攻撃技を優先するようになりました。","おどかすによる阻止や、反響などの強制行動の効果は引き続き有効です。"]},{"id":"news-20261111-01","date":"2026-11-11","title":"チャレンジボス・ユダチョウ登場","items":["火炎・流水の複合属性を持つユダチョウに挑戦できます。","スチームチョイスは相性に応じて流水と火炎を使い分け、50%でやけどにします。","望まぬ夕立は5ターン継続。流水属性は回復し、複合属性の影響は合算されます。","専用特性スチームタンクは流水ダメージを回復へ変え、火炎攻撃を受けると特攻が上がります。"]},{"id":"news-20261110-03","date":"2026-11-10","title":"チャレンジボス・ケファロック登場","items":["岩石・野生の複合属性を持つケファロックに挑戦できます。","専用技ワイルドロック・野生回帰、専用特性いしあたまを追加しました。","体当たり・翻し・翔撃などに内部の突進区分を追加しました。"]},{"id":"news-20261110-02","date":"2026-11-10","title":"反動ターンと強制行動を修正","items":["反動で動けないターンはコマンド入力を省略し、おどかすは失敗します。","反響で使う技が気力不足や使用制限で使えない場合は、攻撃扱いのやけくそで最大HPの20%を失います。","道連れの優先度を通常技と同じにしました。"]},{"id": "news-20261110-01", "date": "2026-11-10", "title": "お知らせ機能を追加", "items": ["未読の最新アップデートを起動時に一度だけ表示します。", "メニューの「お知らせ」から更新履歴を確認できます。"]}, {"id": "b0bf28e-contact", "date": "2026-11-09", "title": "接触技と持ち物の調整", "items": ["攻撃技に接触・非接触の区分を追加しました。", "毒棘は接触技が本体に当たったときだけ発動します。", "護りの札はHP満タンから倒される場合に、一度だけHP1で耐える仕様になりました。"]}, {"id": "057fa31-smart-builds", "date": "2026-11-08", "title": "おまかせ編成を改善", "items": ["持ち物・技・特性が噛み合う組み合わせを選ぶようになりました。", "属性一致の攻撃技を必ず含み、技制限のない持ち物では攻撃2・変化2で編成します。"]}, {"id": "7163438-combat", "date": "2026-11-08", "title": "技と気力溜めのバランス調整", "items": ["痺れ砂の麻痺を交代時50%へ変更。岩投げ・砂礫・体当たりを調整しました。", "守るは攻撃ダメージと追加効果を防ぎ、おどかすでは阻止されなくなりました。", "気力溜めを選択したターンは、攻撃から受けるダメージが1.2倍になります。", "火の粉などの低威力技は、追加効果と気力消費で使い分けられるようにしました。"]}, {"id": "91b43b1-names", "date": "2026-11-08", "title": "幻獣の名前を変更", "items": ["全20体の名前をカタカナに変更しました。", "保存済みの編成は引き続き使用できます。"]}, {"id": "dac5275-move-types", "date": "2026-11-08", "title": "技の属性を整理", "items": ["全62技を見直し、結界・砂かけ・翻し・悪夢など11技の属性を変更しました。", "変更前に覚えられた技と、保存済みの技構成は維持しています。"]}];
 const UpdateNews = {
   key:"genju_battle_news_seen_v1",seen:new Set(),started:false,
   load(){
@@ -6738,7 +6773,7 @@ function lobbyStatus(t, bad){
   if(e){ e.textContent = t; e.className = "hint" + (bad ? " err" : ""); }
 }
 
-const BATTLE_RULES_VERSION = "general-elements-v30";
+const BATTLE_RULES_VERSION = "six-creatures-v31";
 const rulesMatch = message => !!message && message.rulesVersion === BATTLE_RULES_VERSION;
 function rejectRulesMismatch(){
   NET.send({t:"bye"});

diff --git a/pixel-art.js b/pixel-art.js
@@ -3,8 +3,9 @@
   'use strict';
   if (typeof Image !== 'function') return;
   const root = 'assets/pixel-v1/';
-  const ids = ['homura','shiogame','kokejyu','raitachi','iwaushi','fukurou','doryu','fuen','youcho','soukou','tsutazaru','rainen','saikaku','yoigumo','sarou','ungei','mubaku','oborogi','gako','arakuma','hasukaba','damasdevil','kefarock','yudachou','sarandi'];
+  const ids = ['homura','shiogame','kokejyu','raitachi','iwaushi','fukurou','doryu','fuen','youcho','soukou','tsutazaru','rainen','saikaku','yoigumo','sarou','ungei','mubaku','oborogi','gako','arakuma','hasukaba','damasdevil','kefarock','yudachou','sarandi','tsurarauchi','shimosura','kamegane','kanippa','hazumimi','robariton'];
   const rightFacing = new Set(['homura','shiogame','kokejyu','fuen','youcho','soukou','tsutazaru','sarou','ungei','arakuma','kefarock','fukurou','doryu','oborogi','hasukaba','damasdevil']);
+  const backFacingLeft = new Set(['tsurarauchi','shimosura','kamegane','hazumimi','robariton']);
   const durations = [420,220,220,300,420,300,220,220];
   const images = new Map(), actors = new Map(), fields = new Map();
   const weatherBuffer = document.createElement('canvas');
@@ -25,7 +26,7 @@
       weatherPhase=-1;
       window.dispatchEvent(new Event('pixelartready'));
     };
-    im.src=root+name;
+    im.src=root+name+(name.startsWith('creatures-')?'?v=20261123-02':'');
     return im;
   }
   const loaded=im=>im.complete && im.naturalWidth>0;
@@ -54,7 +55,7 @@
       actors.delete(cv);
       if(cv.width!==128)cv.width=128;if(cv.height!==128)cv.height=128;
       const ctx=cv.getContext('2d');ctx.imageSmoothingEnabled=false;ctx.clearRect(0,0,128,128);
-      const mirror=cv.id==='spFoe' && view==='front' && rightFacing.has(id);
+      const mirror=(cv.id==='spFoe' && view==='front' && rightFacing.has(id)) || (cv.id==='spYou' && view==='back' && backFacingLeft.has(id));
       if(mirror){ctx.save();ctx.translate(128,0);ctx.scale(-1,1);}
       ctx.drawImage(im,phase*128,row*128,128,128,0,0,128,128);
       if(mirror)ctx.restore();

diff --git a/docs/new-six-creatures.md b/docs/new-six-creatures.md
@@ -1,0 +1,30 @@
+# 新しい通常幻獣6体（2026-11-23）
+
+全員単属性・能力値合計550。既存技・特性の数値と効果を維持し、習得先を追加する。
+
+|幻獣|属性|HP|物攻|物防|特攻|特防|速度|特性|
+|---|---|---:|---:|---:|---:|---:|---:|---|
+|ツララウチ|氷雪|145|100|95|65|85|60|snowWarning/ballast|
+|シモスラ|氷雪|100|45|65|115|100|125|snowShovel/blur|
+|カメガネ|錬成|120|45|115|90|125|55|minorityWave/mirror|
+|カニッパ|錬成|110|120|115|40|80|85|armPiece/hide|
+|ハズミミ|無属性|105|85|75|50|80|155|superLegs/quick|
+|ロバリトン|無属性|140|70|80|105|100|55|lowVoice/focus2|
+
+特性：ツララウチ＝雪降らし／重心、シモスラ＝雪かき／見切り、カメガネ＝しょうすう波／鏡膜、カニッパ＝腕ピース／岩肌、ハズミミ＝超脚力／早熟、ロバリトン＝中低音／集中。
+
+## 強さと使い分け
+
+- ツララウチ：高HPと雪による物理防御強化。特殊や炎・岩・錬成の弱点に注意。
+- シモスラ：素早さ125、雪かき中250。製氷による先制凍結は強力。雪招きには1行動が必要で、雪降らしの味方から引き継ぐ組合せも強い。低い物理防御と多い弱点で釣り合いを見る。
+- カメガネ：防御115・特防125、修復、音技強化で持久力が高い。素早さ55、特攻90と攻撃範囲を抑えた受け寄り。
+- カニッパ：攻撃120と腕ピースによる連続技が強み。けんけんまは気100・3ターン準備を含むリスクを維持。挟み撃ちからの準備が特に強いので、行動不能や特殊技で対抗する。
+- ハズミミ：素早さ155で最速。超脚力の跳ね蹴りは威力130相当、条件成立で195相当となり強め。攻撃85、耐久控えめ。猪突猛進は速度参照なので、外れ時の加速と技固定に注意。
+- ロバリトン：中低音ならヒーホー砲は威力90相当＋与ダメ半分回復。HP140・特防100で粘れるが素早さ55。幽玄の無効や錬成の半減で受けられる。
+
+理論上の評価であり、同条件の勝率測定ではない。既存幻獣の能力・習得技は変えていない。実戦を見て調整候補とするのは雪かき＋製氷、腕ピース＋けんけんま、超脚力の条件付き跳ね蹴り。
+
+## 表示と互換性
+
+修正済み6体の正面・背面と呼吸コマをそのままアトラス末尾に追加。カメガネの後頭部とカニッパの後ろ側の目の修正を維持。6体の正面は敵側でも左向きを維持。左を向く背面は自分側で反転し、互いに向き合うように表示する。
+旧25体のアトラス行は不変。保存済み編成のキーと種族IDは変更しない。ネット対戦ルール版はsix-creatures-v31に更新して、旧版との対戦を防ぐ。

diff --git a/README.md b/README.md
@@ -2,10 +2,10 @@
 
 **[最新版で遊ぶ — 幻獣闘記](https://kpkarin.github.io/genju-battle/)**
 
-25体の幻獣から三体を選び、四つの技・特性・装備を組み合わせるターン制バトルゲームです。AI戦と、合言葉を使う友だち対戦に対応しています。
+31体の幻獣から三体を選び、四つの技・特性・装備を組み合わせるターン制バトルゲームです。AI戦と、合言葉を使う友だち対戦に対応しています。
 
 - 「チャレンジ」から、複合属性のボス「ケファロック」「ユダチョウ」「サランディ」に3対1で挑めます。
-- 幻獣25体は128pxの正面・背面ドット絵と呼吸アニメで表示。背景・天候・状態異常も同じピクセル感に揃えています。
+- 幻獣31体は128pxの正面・背面ドット絵と呼吸アニメで表示。背景・天候・状態異常も同じピクセル感に揃えています。
 - 「お知らせ」で更新履歴を確認できます。未読の最新版だけ、起動時に一度表示します。
 - 通常20体の技は個別習得制。自己強化・先制・妨害・回復の役割を見直しています。
 - おまかせ編成は持ち物・属性一致・攻撃分類・特性の組み合わせを考慮して生成します。
